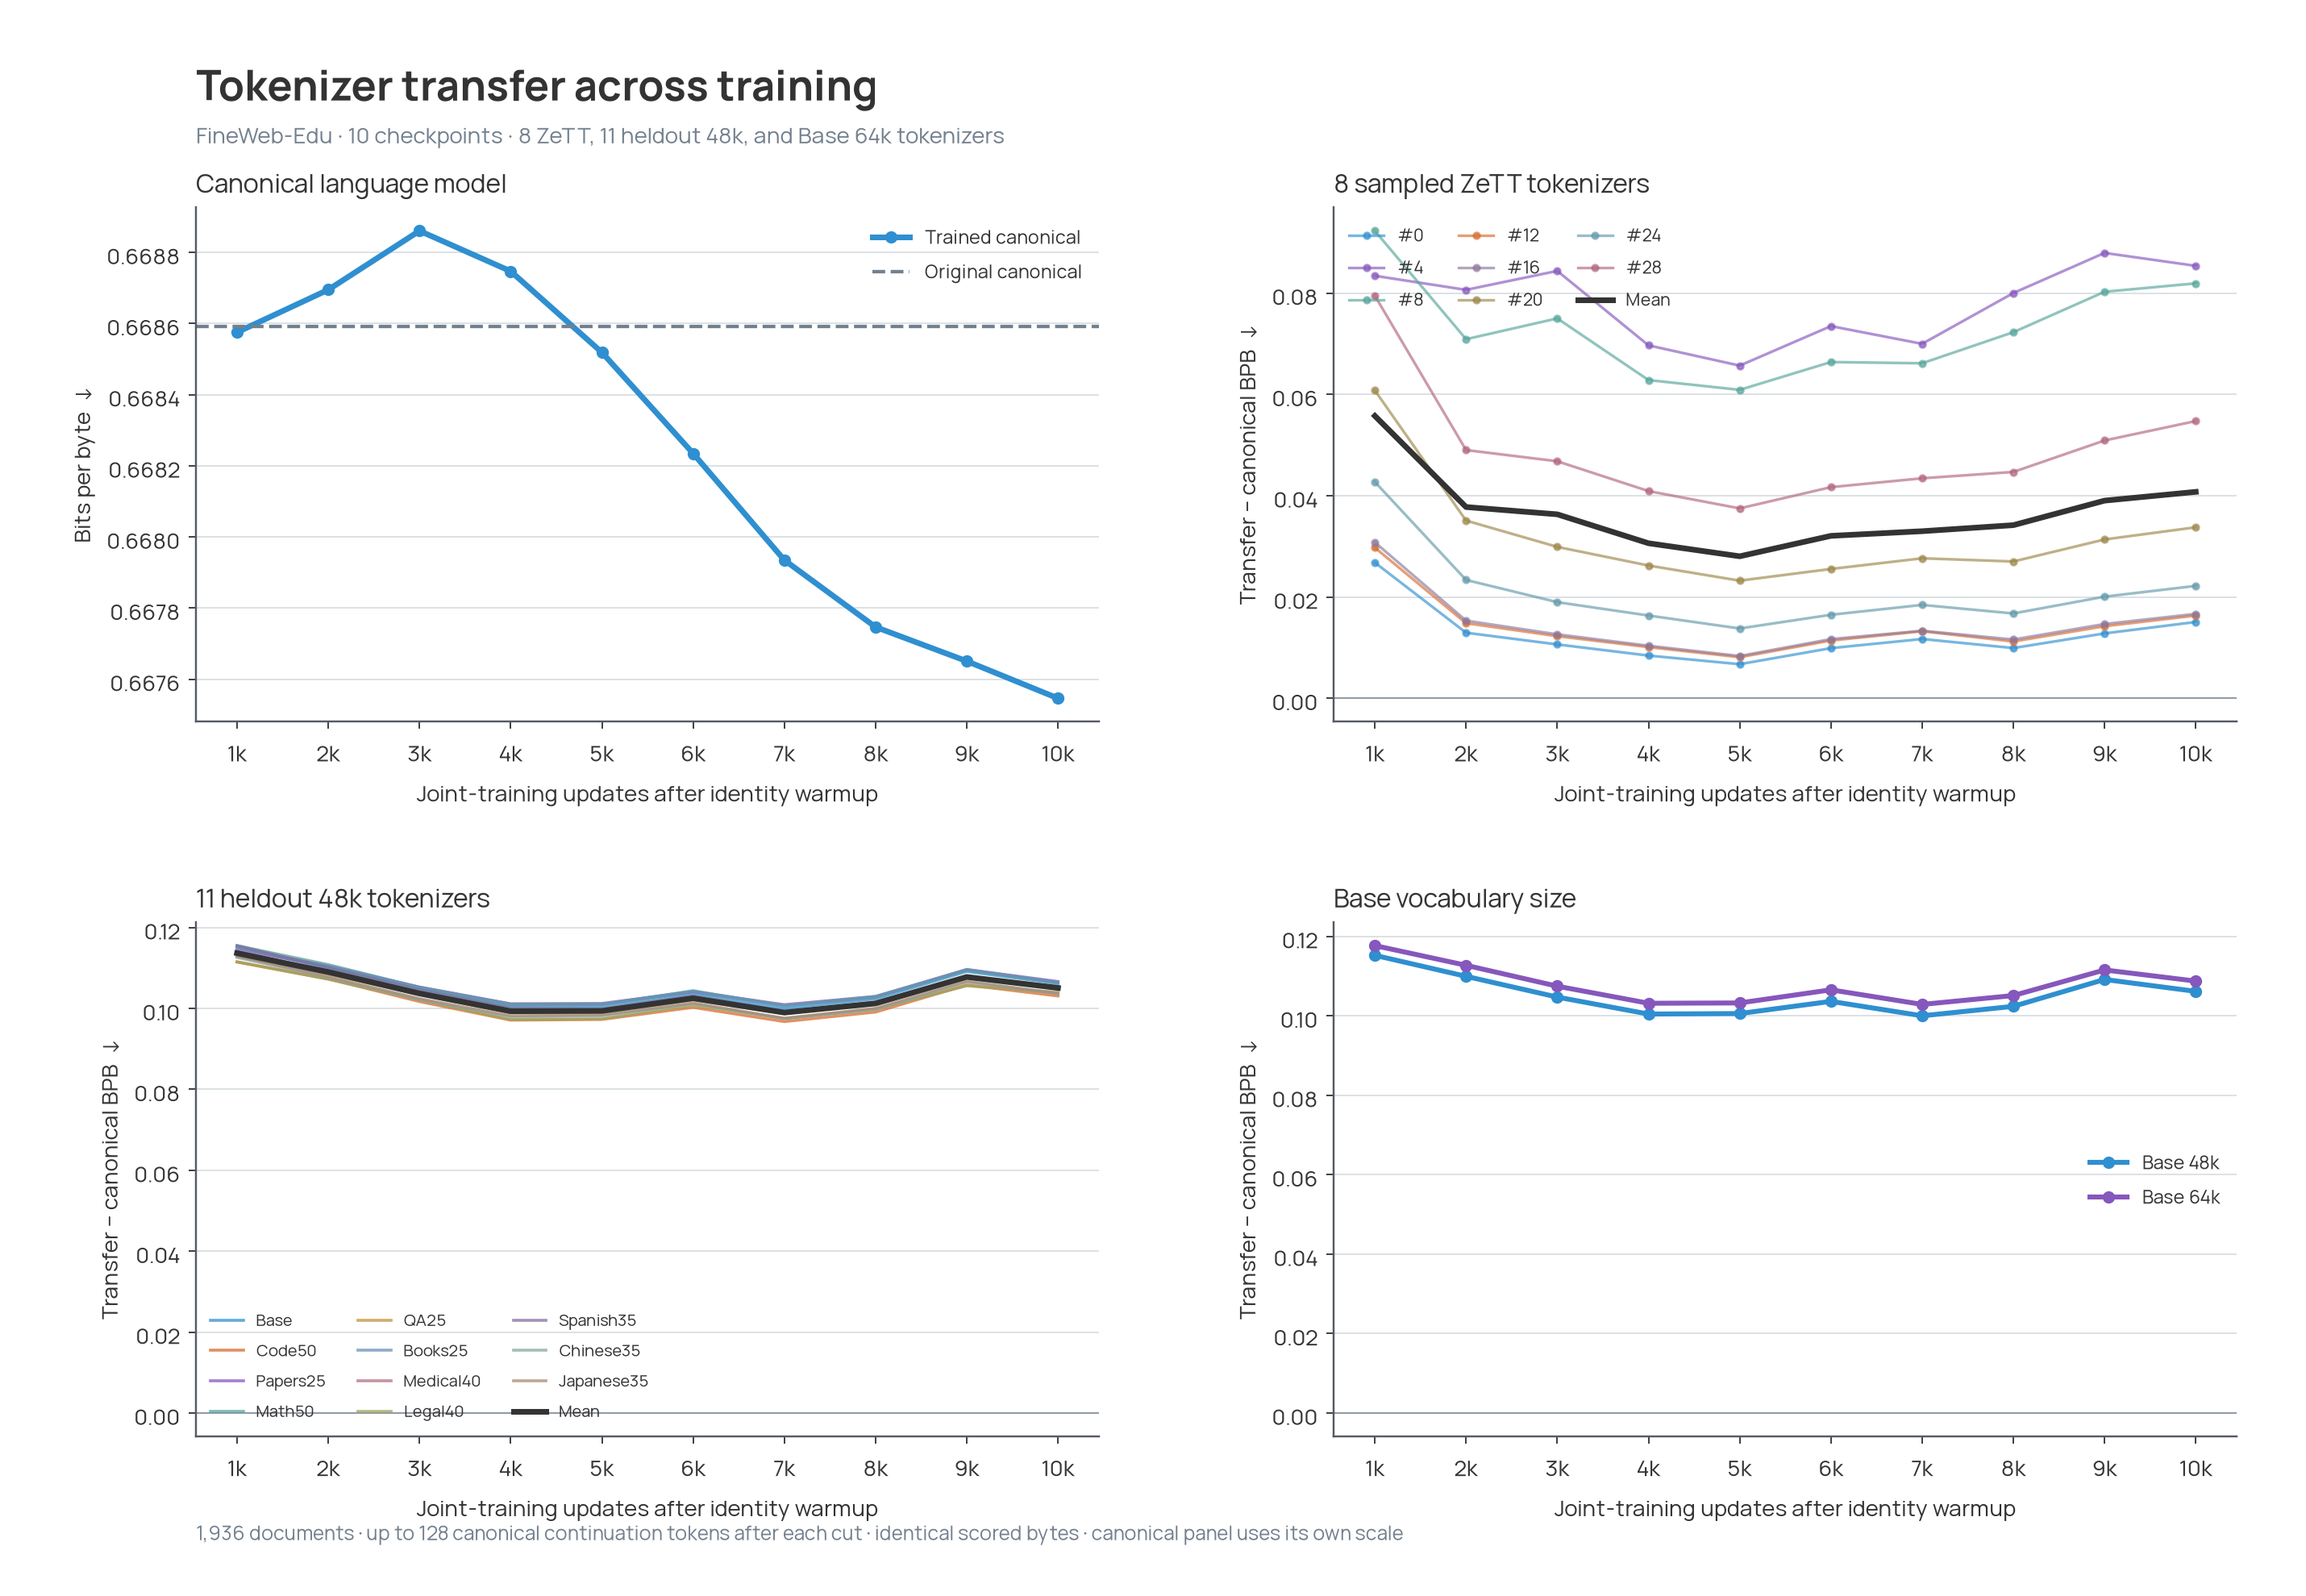
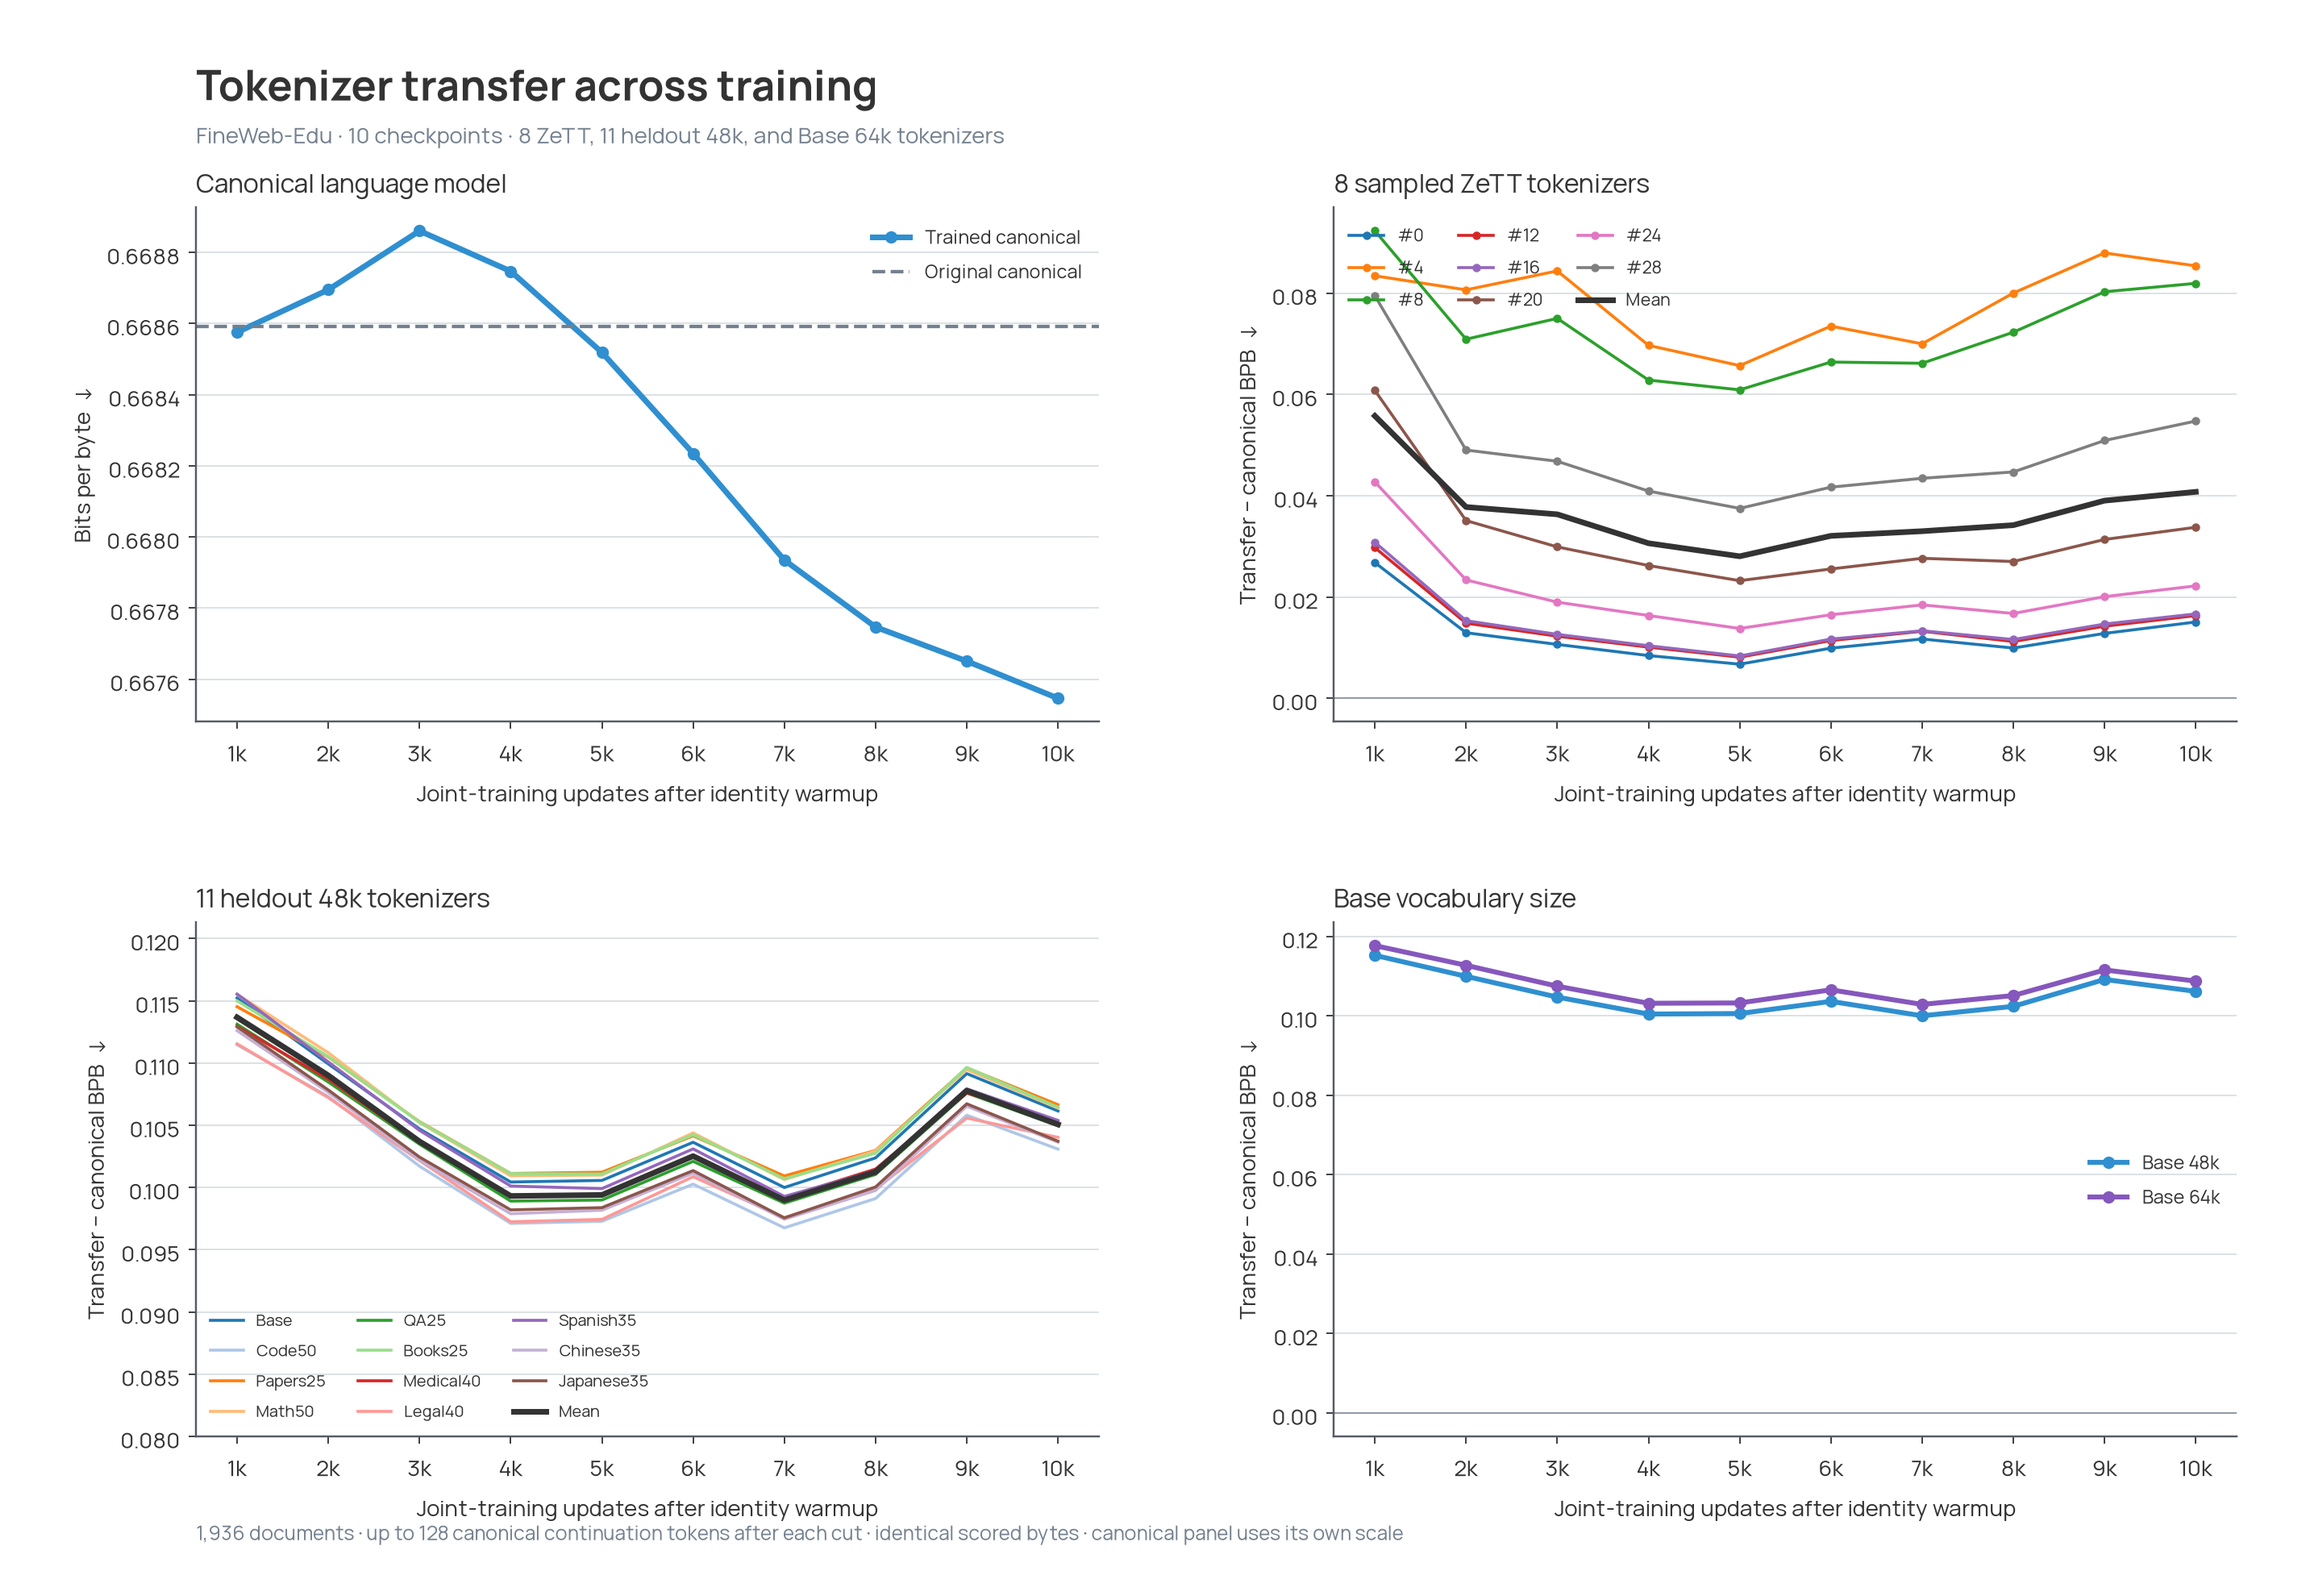
Restore tokenizer plot colors and zoom 48k gaps

diff --git a/plotting_scripts/plot_zett_20k_transfer.py b/plotting_scripts/plot_zett_20k_transfer.py
@@ -170,17 +170,16 @@ def draw(rows, output):
     a.set_ylabel('Bits per byte  ↓')
     a.legend(frameon=False, loc='best')
     a = axes[0, 1]
-    zcolors = ['#2F8FD0', '#8657BC', '#55A59A', '#D86B2D', '#8C779B', '#9C8648', '#6299AA', '#B0657B']
+    zcolors = [plt.get_cmap('tab10')(i) for i in range(len(INDICES))]
     for i, color in zip(INDICES, zcolors):
-        a.plot(steps, series(f'zett_{i}_gap_bpb'), color=color, alpha=.65, lw=1.1, marker='o', ms=2.4, label=f'#{i}')
+        a.plot(steps, series(f'zett_{i}_gap_bpb'), color=color, lw=1.2, marker='o', ms=2.4, label=f'#{i}')
     a.plot(steps, series('zett_mean_gap_bpb'), color=INK, lw=2.3, label='Mean')
     a.set_title('8 sampled ZeTT tokenizers', loc='left')
     a.legend(frameon=False, ncol=3, loc='upper left', fontsize=7)
     a = axes[1, 0]
-    palette = ['#2F8FD0', '#D86B2D', '#8657BC', '#55A59A', '#C1923A', '#6C8FB5',
-               '#B27182', '#9BA45B', '#7F709C', '#86A9A0', '#AB8A76']
+    palette = [plt.get_cmap('tab20')(i) for i in range(len(LABELS))]
     for label, color in zip(LABELS, palette):
-        a.plot(steps, series(f'ood48_{label}_gap_bpb'), color=color, lw=1.2, alpha=.75, label=label)
+        a.plot(steps, series(f'ood48_{label}_gap_bpb'), color=color, lw=1.2, label=label)
     a.plot(steps, series('ood48_mean_gap_bpb'), color=INK, lw=2.3, label='Mean')
     a.set_title('11 heldout 48k tokenizers', loc='left')
     a.legend(frameon=False, ncol=3, loc='lower left', fontsize=6.6)
@@ -192,6 +191,7 @@ def draw(rows, output):
     for a in (axes[0, 1], axes[1, 0], axes[1, 1]):
         a.axhline(0, color=GRAY, lw=.7, alpha=.7)
         a.set_ylabel('Transfer − canonical BPB  ↓')
+    axes[1, 0].set_ylim(bottom=0.08)
     for a in axes.flat:
         a.set_xlabel('Joint-training updates after identity warmup')
         a.xaxis.set_major_locator(MaxNLocator(nbins=10, integer=True))
